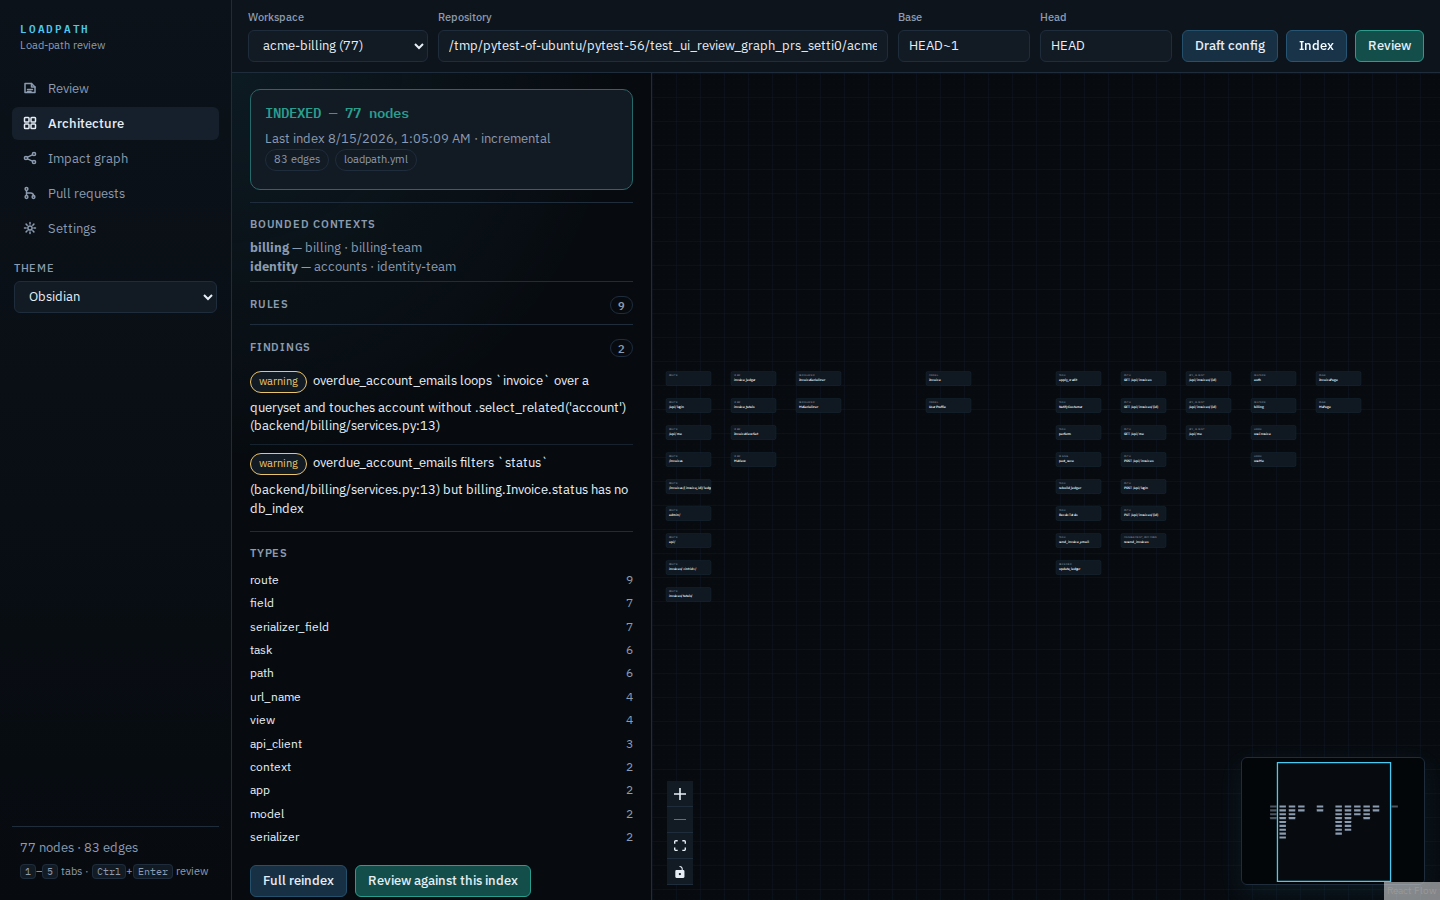
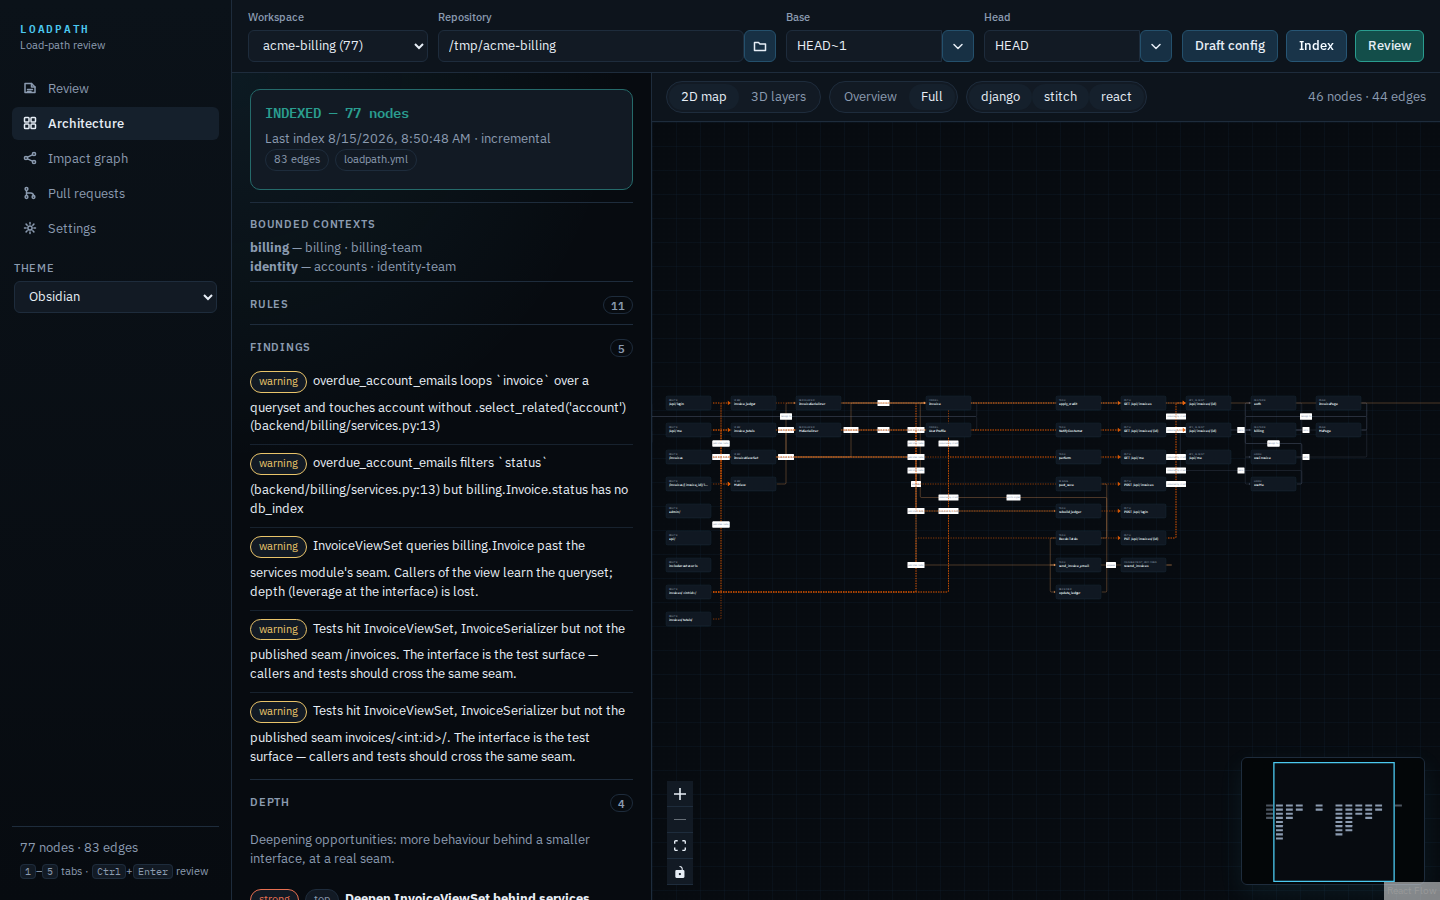
Capture every UI screen and nine themes for the README.
Expand the Playwright shot so it records empty review, the inspector,
architecture vs impact-graph modes, explorer, MCP consent (real OAuth
HTML), and a theme gallery. Write PNGs into docs/screenshots/.

diff --git a/tests/e2e/test_ui_screenshots.py b/tests/e2e/test_ui_screenshots.py
@@ -1,9 +1,54 @@
 from __future__ import annotations
 
 import os
+import shutil
 from pathlib import Path
 
 import pytest
+
+THEME_SHOTS = (
+    "obsidian",
+    "nord",
+    "neon-noir",
+    "synthwave",
+    "phosphor",
+    "paper",
+    "sakura",
+    "citrus",
+    "high-contrast",
+)
+
+EXPECTED = (
+    "review-empty.png",
+    "review.png",
+    "review-inspector.png",
+    "architecture.png",
+    "graph.png",
+    "graph-architecture.png",
+    "graph-3d.png",
+    "pull-requests.png",
+    "settings.png",
+    "explorer.png",
+    "mcp-consent.png",
+    *(f"theme-{theme}.png" for theme in THEME_SHOTS),
+)
+
+
+def _wait_fonts(page) -> None:
+    try:
+        page.wait_for_function("document.fonts ? document.fonts.status === 'loaded' : true", timeout=5_000)
+    except Exception:
+        pass
+
+
+def _shot(page, dest: Path, name: str) -> None:
+    page.wait_for_timeout(400)
+    page.screenshot(path=str(dest / name), full_page=False)
+
+
+def _wait_graph(page) -> None:
+    page.locator(".react-flow__node").first.wait_for(timeout=15_000)
+    page.locator(".react-flow__edge").first.wait_for(timeout=15_000)
 
 
 @pytest.mark.playwright
@@ -19,17 +64,30 @@ def test_ui_review_graph_prs_settings(live_app, tmp_path: Path, browser_page):
         ),
     )
     page.goto(base_url, wait_until="networkidle")
-    try:
-        page.wait_for_function("document.fonts ? document.fonts.status === 'loaded' : true", timeout=5_000)
-    except Exception:
-        pass
+    _wait_fonts(page)
     assert page.get_by_test_id("rail").is_visible()
+    page.get_by_test_id("review-empty").wait_for()
+
+    dest = Path(os.environ.get("LOADPATH_SCREENSHOT_DIR", str(tmp_path / "shots")))
+    dest.mkdir(parents=True, exist_ok=True)
+
+    pretty = Path("/tmp/acme-billing")
+    if pretty.exists():
+        shutil.rmtree(pretty)
+    shutil.copytree(repo, pretty)
+    repo = pretty
+
+    _shot(page, dest, "review-empty.png")
     page.get_by_test_id("repo-path").fill(str(repo))
     page.get_by_test_id("base-ref").fill("HEAD~1")
     page.get_by_test_id("head-ref").fill("HEAD")
 
-    dest = Path(os.environ.get("LOADPATH_SCREENSHOT_DIR", str(tmp_path / "shots")))
-    dest.mkdir(parents=True, exist_ok=True)
+    page.get_by_test_id("btn-browse-repo").click()
+    page.get_by_test_id("repo-explorer").wait_for()
+    page.get_by_test_id("explorer-entry").first.wait_for(timeout=10_000)
+    _shot(page, dest, "explorer.png")
+    page.get_by_test_id("explorer-cancel").click()
+    page.get_by_test_id("repo-explorer").wait_for(state="hidden")
 
     with page.expect_response(
         lambda r: "/api/index" in r.url and r.request.method == "POST",
@@ -40,10 +98,9 @@ def test_ui_review_graph_prs_settings(live_app, tmp_path: Path, browser_page):
         pytest.fail(f"index API {pending_index.value.status}: {pending_index.value.text()}")
     page.get_by_test_id("architecture-brief").wait_for(timeout=15_000)
     page.get_by_test_id("architecture-brief").locator(".level").wait_for(timeout=15_000)
-    page.locator(".react-flow__node").first.wait_for(timeout=15_000)
-    page.locator(".react-flow__edge").first.wait_for(timeout=15_000)
+    _wait_graph(page)
     page.wait_for_timeout(800)
-    page.screenshot(path=str(dest / "architecture.png"), full_page=False)
+    _shot(page, dest, "architecture.png")
 
     with page.expect_response(
         lambda r: "/api/review" in r.url and r.request.method == "POST",
@@ -59,48 +116,82 @@ def test_ui_review_graph_prs_settings(live_app, tmp_path: Path, browser_page):
     page.locator(".level").wait_for(timeout=15_000)
     brief = page.get_by_test_id("brief").inner_text()
     assert "MEDIUM" in brief or "LOW" in brief or "HIGH" in brief
-    page.locator(".react-flow__node").first.wait_for(timeout=15_000)
-    page.locator(".react-flow__edge").first.wait_for(timeout=15_000)
+    _wait_graph(page)
     page.wait_for_timeout(800)
-    page.screenshot(path=str(dest / "review.png"), full_page=False)
+    _shot(page, dest, "review.png")
+
+    page.locator(".react-flow__node").filter(has_text="InvoiceSerializer").first.click()
+    inspector = page.get_by_test_id("graph-inspector")
+    inspector.wait_for(timeout=5_000)
+    assert page.get_by_test_id("graph-inspector-purpose").inner_text().strip()
+    _shot(page, dest, "review-inspector.png")
+    page.get_by_test_id("graph-inspector-close").click()
+    inspector.wait_for(state="hidden")
 
     page.get_by_test_id("tab-graph").click()
     page.get_by_test_id("graph-full").wait_for()
-    page.locator(".react-flow__node").first.wait_for(timeout=15_000)
-    page.locator(".react-flow__edge").first.wait_for(timeout=15_000)
+    _wait_graph(page)
     page.locator(".react-flow__minimap-node").first.wait_for(timeout=10_000)
     assert page.locator(".react-flow__minimap-node").count() > 3
     assert page.locator(".react-flow__edge").count() > 0
     page.wait_for_timeout(600)
-    page.screenshot(path=str(dest / "graph.png"), full_page=False)
+    _shot(page, dest, "graph.png")
+
+    page.get_by_test_id("graph-mode-architecture").click()
+    _wait_graph(page)
+    page.wait_for_timeout(600)
+    _shot(page, dest, "graph-architecture.png")
+    page.get_by_test_id("graph-mode-review").click()
+    _wait_graph(page)
 
     page.get_by_test_id("graph-view-3d").click()
     assert page.get_by_test_id("graph-view-3d").get_attribute("aria-pressed") == "true"
     page.get_by_test_id("graph-3d").wait_for(timeout=15_000)
     page.locator("[data-testid='graph-3d-canvas'], [data-testid='graph-3d-fallback']").first.wait_for(timeout=20_000)
     page.wait_for_timeout(800)
-    page.screenshot(path=str(dest / "graph_3d.png"), full_page=False)
+    _shot(page, dest, "graph-3d.png")
     page.get_by_test_id("graph-view-2d").click()
-    page.locator(".react-flow__node").first.wait_for(timeout=15_000)
+    _wait_graph(page)
 
     page.get_by_test_id("tab-prs").click()
     page.get_by_test_id("pr-repo").fill("acme/demo")
     page.get_by_test_id("btn-list-prs").click()
     page.get_by_text("#42").wait_for(timeout=10_000)
-    page.wait_for_timeout(300)
-    page.screenshot(path=str(dest / "pull-requests.png"), full_page=False)
+    _shot(page, dest, "pull-requests.png")
 
     page.get_by_test_id("tab-settings").click()
     page.get_by_test_id("settings-form").wait_for()
     page.locator('select[name="ai_provider"]').select_option("grok")
     page.get_by_test_id("theme-grid").wait_for()
-    page.get_by_test_id("theme-paper").click()
-    page.wait_for_function("document.documentElement.dataset.theme === 'paper'")
-    page.wait_for_timeout(200)
-    page.screenshot(path=str(dest / "settings.png"), full_page=False)
+    _shot(page, dest, "settings.png")
 
-    page.get_by_test_id("theme-select").select_option("nord")
-    page.wait_for_function("document.documentElement.dataset.theme === 'nord'")
+    page.get_by_test_id("tab-review").click()
+    page.get_by_test_id("brief").wait_for()
+    _wait_graph(page)
+    for theme in THEME_SHOTS:
+        page.get_by_test_id("theme-select").select_option(theme)
+        page.wait_for_function(
+            "id => document.documentElement.dataset.theme === id",
+            arg=theme,
+        )
+        page.wait_for_timeout(250)
+        _shot(page, dest, f"theme-{theme}.png")
 
-    for name in ("architecture.png", "review.png", "graph.png", "pull-requests.png", "settings.png"):
-        assert (dest / name).stat().st_size > 1000
+    from loadpath.mcp.oauth import LoadpathOAuthProvider
+
+    oauth = LoadpathOAuthProvider(
+        issuer="http://127.0.0.1:7345",
+        resource="http://127.0.0.1:7345/mcp",
+        pin="123456",
+    )
+    consent = page.context.new_page()
+    consent.set_content(oauth._consent_html("demo", "Cursor"))
+    consent.set_viewport_size({"width": 1440, "height": 900})
+    consent.wait_for_timeout(200)
+    consent.screenshot(path=str(dest / "mcp-consent.png"), full_page=False)
+    consent.close()
+
+    for name in EXPECTED:
+        path = dest / name
+        assert path.is_file(), name
+        assert path.stat().st_size > 1000, name
